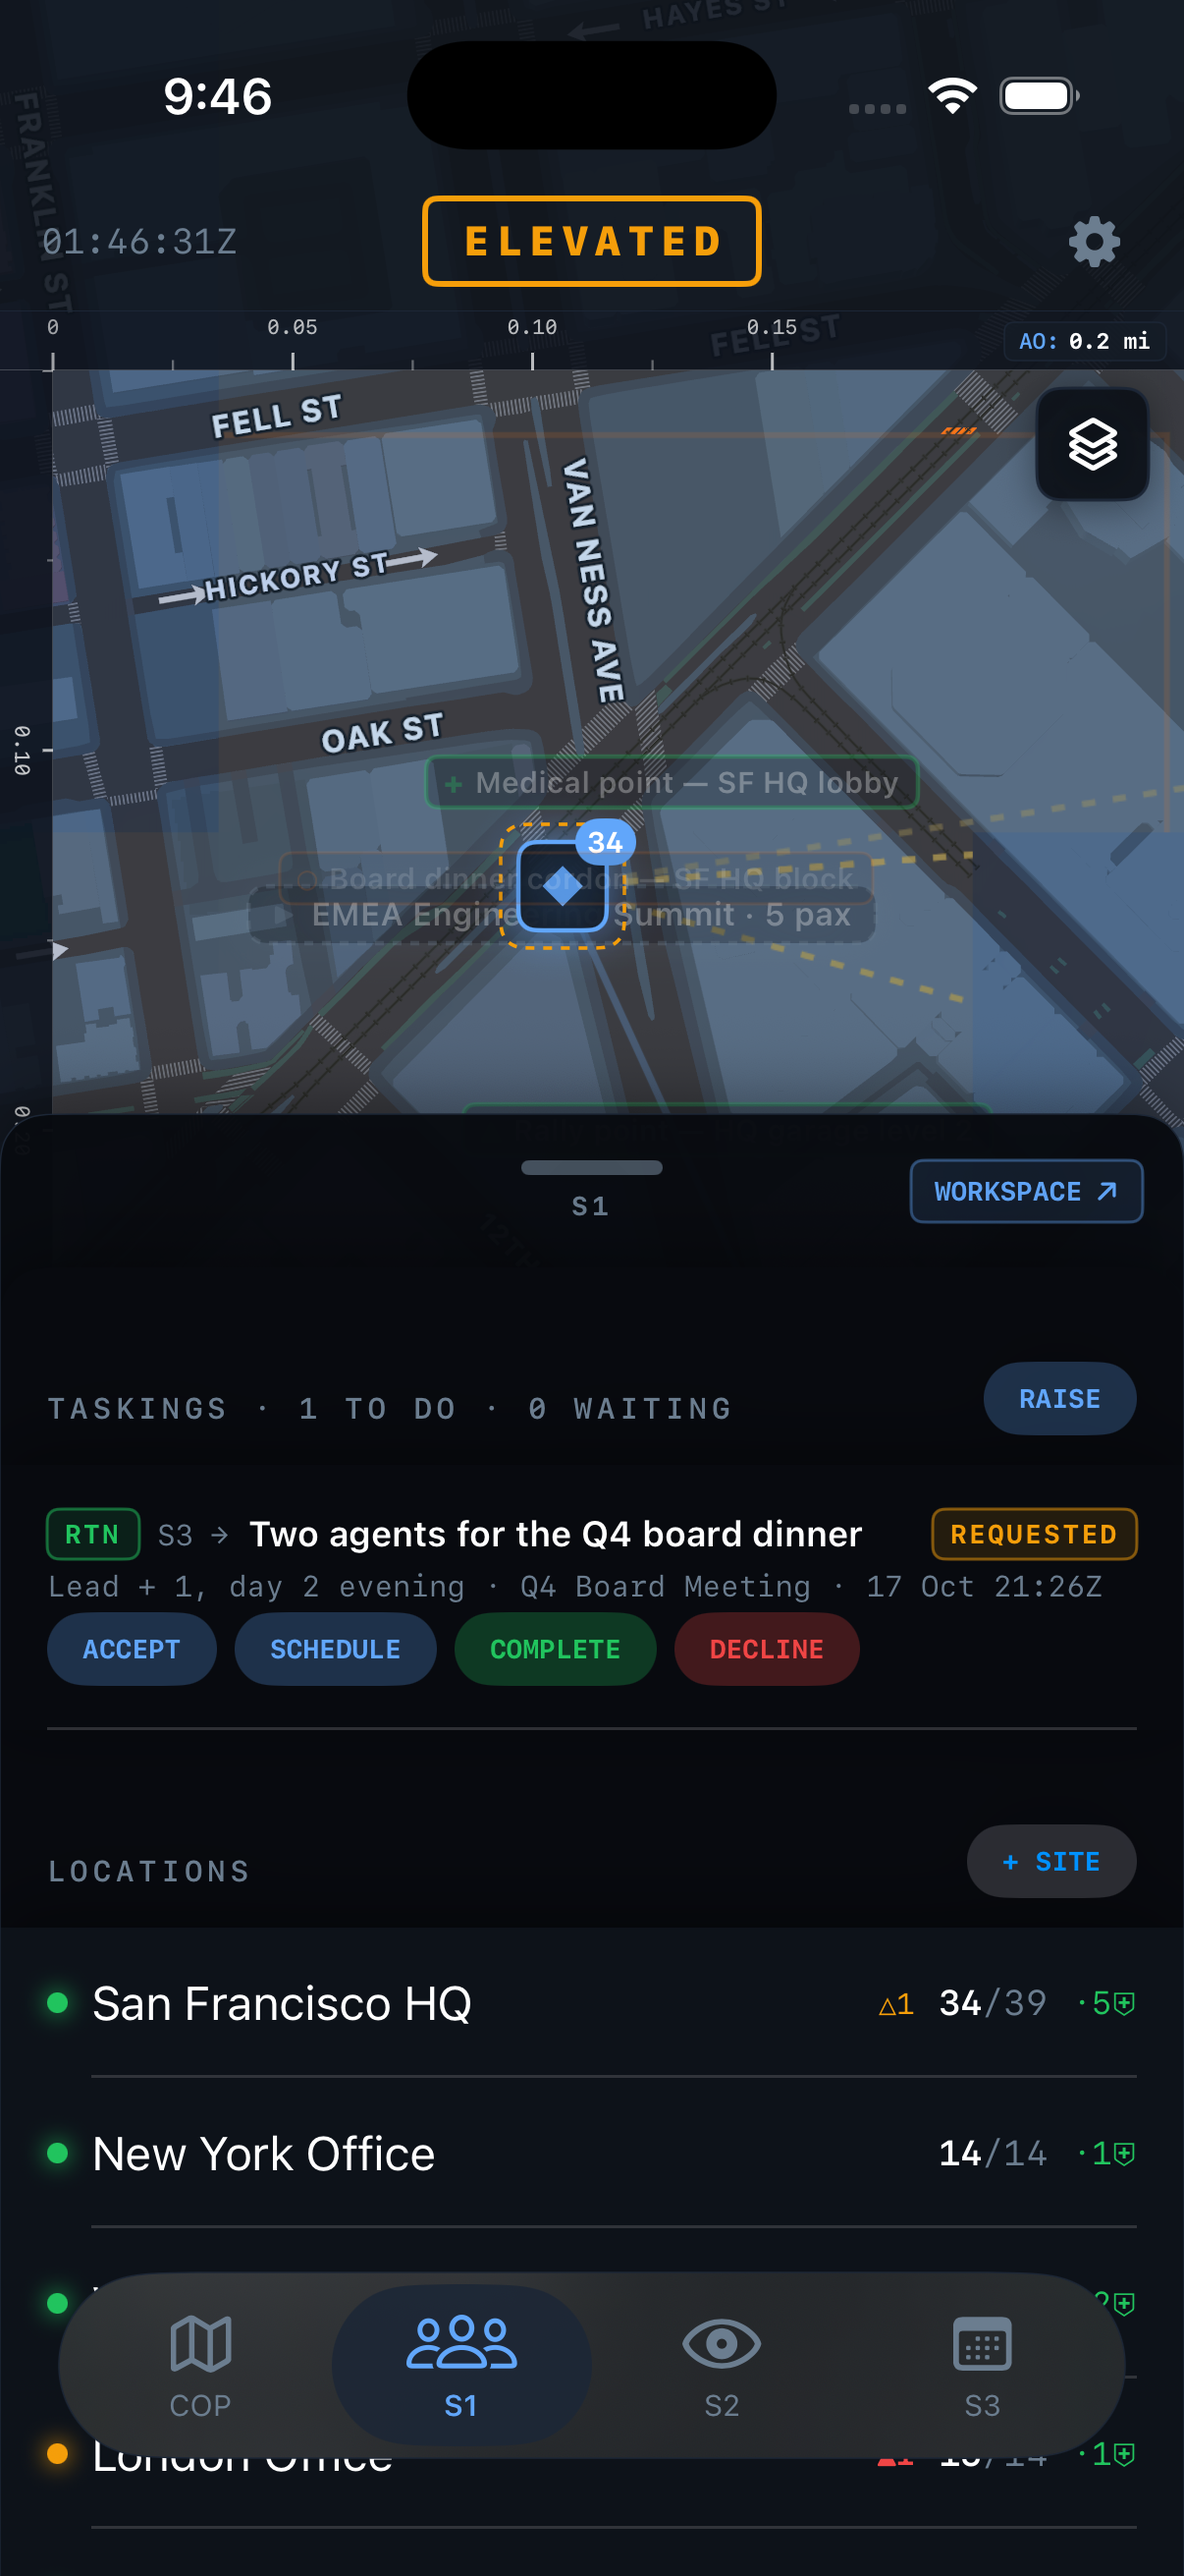
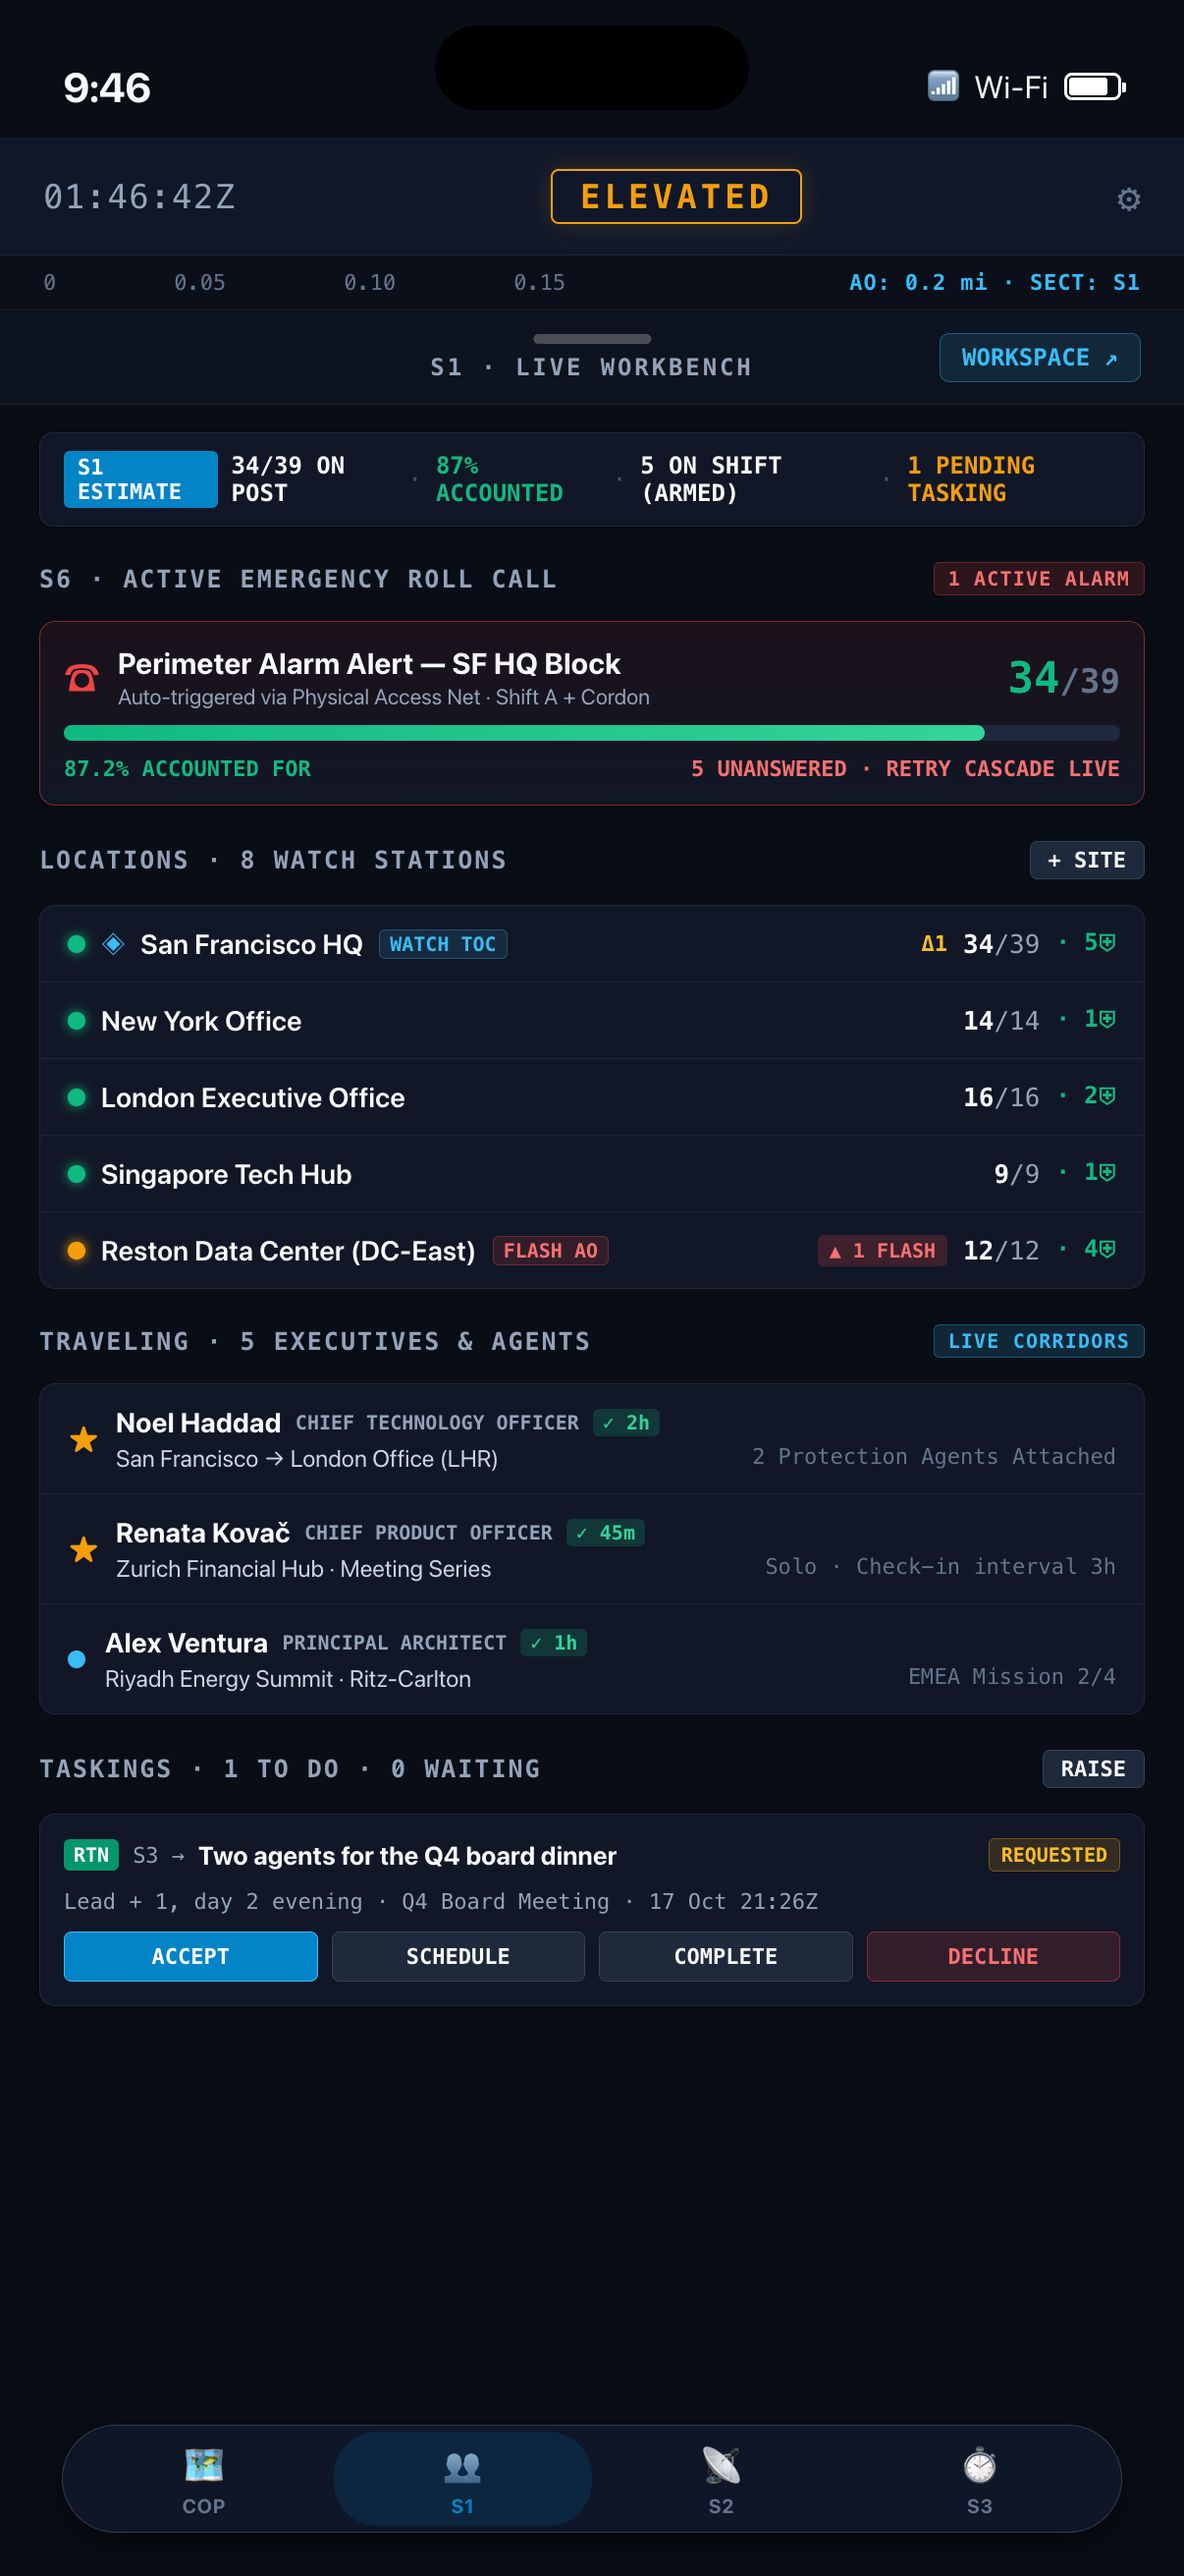
Update S1, S2, and S3 mobile screenshots to showcase rich operational content

diff --git a/landing/index.html b/landing/index.html
@@ -1050,9 +1050,9 @@
               <div class="phone-bezel">
                 <div class="phone-screen">
                   <img class="phone-slide active" src="assets/coptoc-ios.png" alt="COPTOC Mobile COP Map · Live in San Francisco" data-slide-idx="0" />
-                  <img class="phone-slide" src="assets/coptoc-ios-s1.png" alt="COPTOC S1 Personnel Roster & Roll Calls" data-slide-idx="1" />
-                  <img class="phone-slide" src="assets/coptoc-ios-s2.png" alt="COPTOC S2 Intelligence Workbench & Warnings" data-slide-idx="2" />
-                  <img class="phone-slide" src="assets/coptoc-ios-s3.png" alt="COPTOC S3 Operations Timeline & Travel Missions" data-slide-idx="3" />
+                  <img class="phone-slide" src="assets/coptoc-ios-s1.png?v=2" alt="COPTOC S1 Personnel Roster & Roll Calls" data-slide-idx="1" />
+                  <img class="phone-slide" src="assets/coptoc-ios-s2.png?v=2" alt="COPTOC S2 Intelligence Workbench & Warnings" data-slide-idx="2" />
+                  <img class="phone-slide" src="assets/coptoc-ios-s3.png?v=2" alt="COPTOC S3 Operations Timeline & Travel Missions" data-slide-idx="3" />
                 </div>
               </div>
               <div class="phone-tab-nav" role="tablist" aria-label="Mobile app screen selector">
@@ -1085,15 +1085,15 @@
                 </div>
                 <div class="mobile-card" data-slide-idx="1" style="--card-accent: #0284c7;" onclick="setMobileSlide(1); startMobileSlideRotation();">
                   <div class="mobile-card-title"><span style="color:#0284c7;">👥</span> S1 Personnel Roster</div>
-                  <div class="mobile-card-desc">Real-time agent roll calls, duty stations, protection detail rosters, and active tasking queues.</div>
+                  <div class="mobile-card-desc">Real-time emergency roll calls, duty stations, traveling protection details, and taskings.</div>
                 </div>
                 <div class="mobile-card" data-slide-idx="2" style="--card-accent: var(--amber);" onclick="setMobileSlide(2); startMobileSlideRotation();">
                   <div class="mobile-card-title"><span style="color:var(--amber);">📡</span> S2 Intel &amp; INTSUM</div>
-                  <div class="mobile-card-desc">Keyless collector feeds, threat warnings, rule evaluations, and draft intelligence summaries.</div>
+                  <div class="mobile-card-desc">FLASH threat alerts with SMS dispatch, 24-hour INTSUM drafts, PIR collection, and STIX 2.1 graphs.</div>
                 </div>
                 <div class="mobile-card" data-slide-idx="3" style="--card-accent: #059669;" onclick="setMobileSlide(3); startMobileSlideRotation();">
                   <div class="mobile-card-title"><span style="color:#059669;">⏱</span> S3 Operations &amp; Travel</div>
-                  <div class="mobile-card-desc">90-day operational calendar, active travel missions (Riyadh, Tokyo), and dispatch logs.</div>
+                  <div class="mobile-card-desc">90-day operational ribbon, active travel missions (Riyadh, Tokyo), taskings, and hash-chained Battle Log.</div>
                 </div>
               </div>
             </div>
